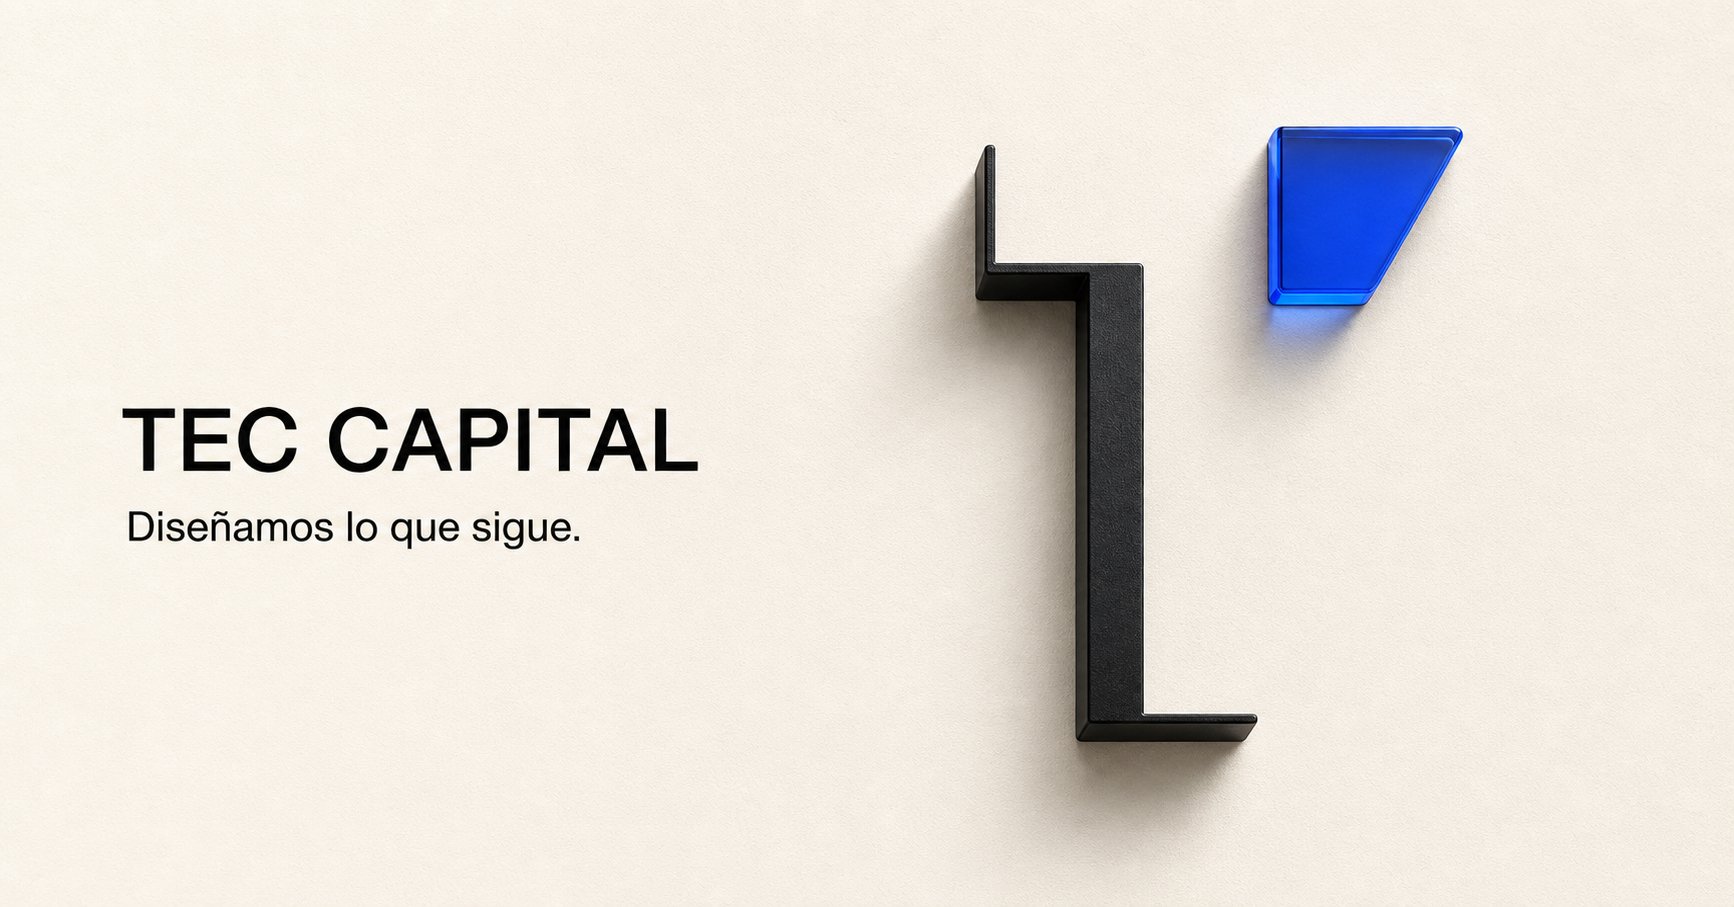
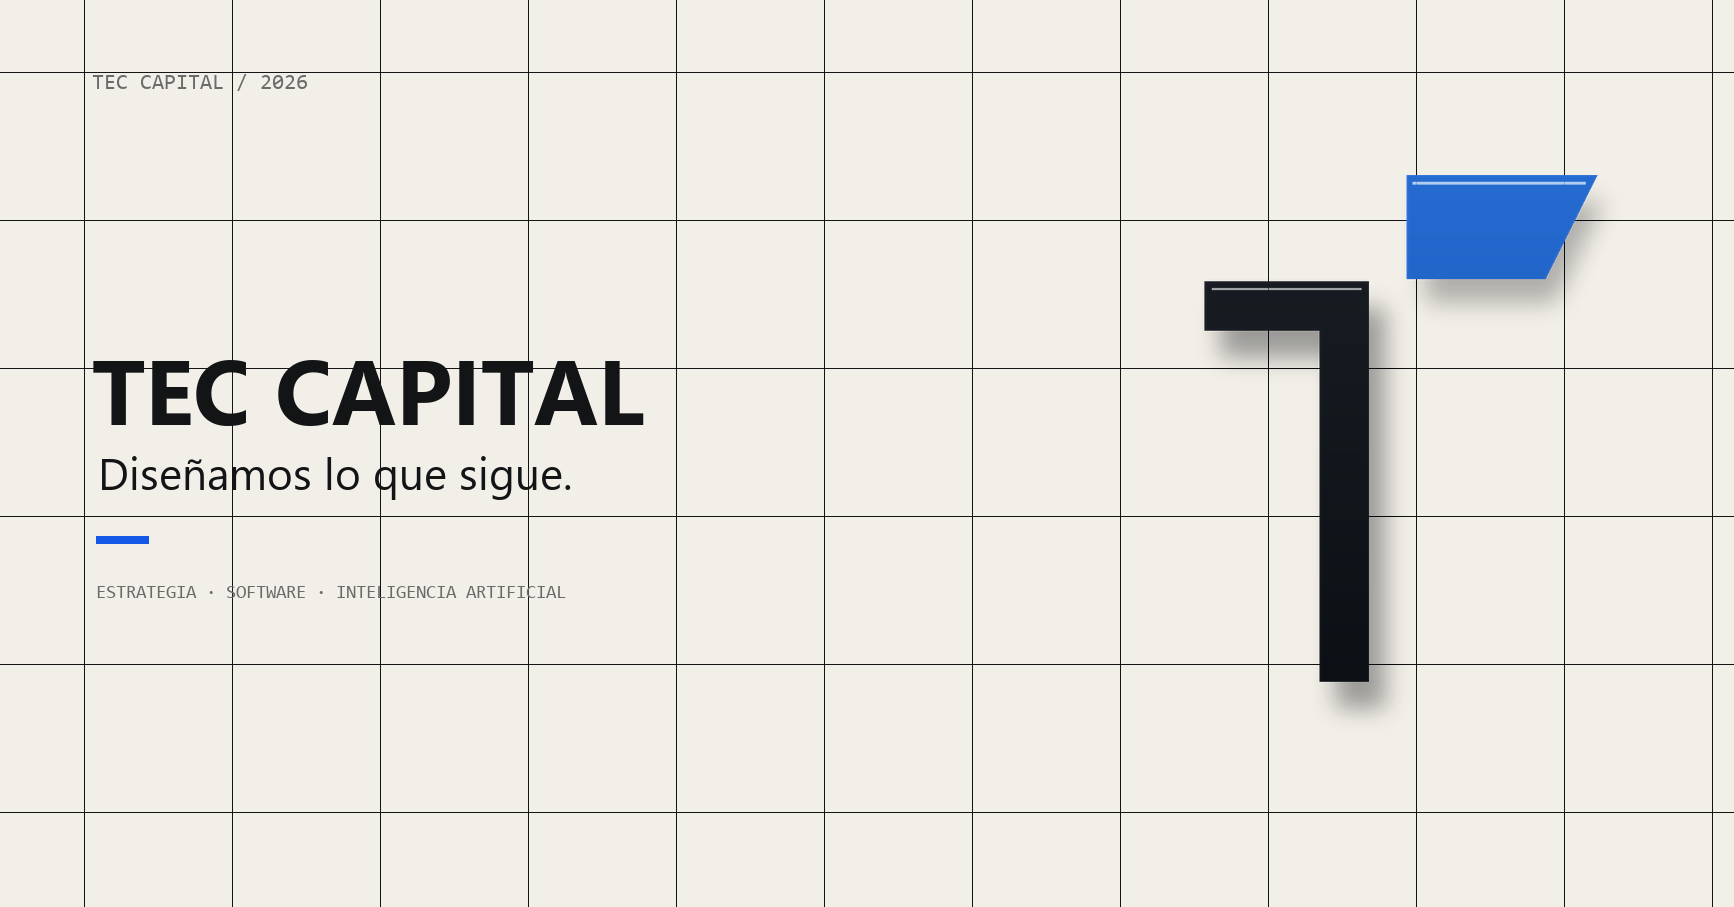
Correct TEC CAPITAL mark and responsive overlaps

diff --git a/index.html b/index.html
@@ -15,7 +15,7 @@
   <meta name="twitter:title" content="TEC CAPITAL — Diseñamos lo que sigue">
   <meta name="twitter:description" content="Estrategia, software, inteligencia artificial y diseño.">
   <meta name="twitter:image" content="assets/img/brand-editorial.png">
-  <link rel="icon" type="image/png" href="assets/img/logo-t.png">
+  <link rel="icon" type="image/png" href="assets/img/logo-t-hd.png">
   <link rel="preconnect" href="https://fonts.googleapis.com">
   <link rel="preconnect" href="https://fonts.gstatic.com" crossorigin>
   <link href="https://fonts.googleapis.com/css2?family=DM+Mono:wght@300;400;500&family=Manrope:wght@400;500;600;700&family=Urbanist:wght@500;600;700&display=swap" rel="stylesheet">
@@ -81,7 +81,7 @@
     .header.scrolled { border-color: var(--line-soft); background: rgba(242, 239, 232, .9); backdrop-filter: blur(18px); }
     .nav { display: grid; grid-template-columns: 1fr auto 1fr; align-items: center; height: 86px; }
     .brand { display: inline-flex; align-items: center; gap: 12px; justify-self: start; position: relative; z-index: 102; }
-    .brand img { width: 45px; height: 35px; object-fit: contain; mix-blend-mode: multiply; }
+    .brand img { width: 30px; height: 42px; object-fit: contain; }
     .brand strong { font-family: var(--display); font-size: .92rem; font-weight: 700; letter-spacing: -.02em; }
     .nav-links { display: flex; align-items: center; justify-content: center; gap: 28px; }
     .nav-links a { position: relative; font-size: .73rem; font-weight: 600; }
@@ -115,13 +115,8 @@
     .hero-art { position: relative; min-height: 650px; perspective: 1100px; }
     .art-grid { position: absolute; inset: 0; background-image: linear-gradient(var(--line-soft) 1px, transparent 1px), linear-gradient(90deg, var(--line-soft) 1px, transparent 1px); background-size: 54px 54px; mask-image: linear-gradient(to bottom, transparent, #000 17%, #000 82%, transparent); }
     .art-number { position: absolute; top: 8px; right: 0; font: 300 .66rem var(--mono); color: var(--muted); writing-mode: vertical-rl; }
-    .mark-scene { position: absolute; top: 50%; left: 50%; width: 360px; height: 470px; transform: translate(-50%, -50%) rotateX(var(--rx, 1deg)) rotateY(var(--ry, -8deg)); transform-style: preserve-3d; transition: transform .3s ease-out; }
-    .mark-shadow { position: absolute; left: 20%; right: 2%; bottom: 5%; height: 80px; border-radius: 50%; background: rgba(0, 0, 0, .2); filter: blur(30px); transform: rotateX(72deg) translateZ(-30px); }
-    .mark-black { position: absolute; top: 78px; left: 78px; width: 58px; height: 310px; background: var(--ink); box-shadow: 7px 7px 0 #050607, 14px 14px 32px rgba(0, 0, 0, .2); transform: translateZ(40px); }
-    .mark-black::before { content: ''; position: absolute; top: 0; right: 0; width: 126px; height: 55px; background: var(--ink); }
-    .mark-black::after { content: ''; position: absolute; right: -110px; bottom: 0; width: 112px; height: 48px; background: var(--ink); }
-    .mark-blue { position: absolute; top: 23px; right: 23px; width: 145px; height: 96px; background: var(--blue); clip-path: polygon(0 0, 100% 0, 72% 100%, 0 100%); box-shadow: 0 22px 38px rgba(21, 88, 232, .26); transform: translateZ(78px); }
-    .mark-blue::after { content: ''; position: absolute; inset: 10px; border: 1px solid rgba(255, 255, 255, .3); clip-path: inherit; }
+    .mark-scene { position: absolute; top: 50%; left: 50%; width: 390px; height: 500px; transform: translate(-50%, -50%) rotateX(var(--rx, 1deg)) rotateY(var(--ry, -8deg)); transform-style: preserve-3d; transition: transform .3s ease-out; }
+    .mark-scene img { width: 100%; height: 100%; object-fit: contain; filter: drop-shadow(18px 24px 20px rgba(18, 20, 22, .18)); }
     .art-note { position: absolute; padding: 11px 14px; border: 1px solid var(--line); background: rgba(242, 239, 232, .84); backdrop-filter: blur(8px); font: 400 .61rem var(--mono); text-transform: uppercase; }
     .note-a { top: 22%; left: -2%; }
     .note-b { right: -1%; bottom: 24%; }
@@ -176,11 +171,9 @@
     .work-card.blue { color: #fff; border-color: var(--blue); background: var(--blue); }
     .work-meta { display: flex; justify-content: space-between; gap: 20px; font: 400 .61rem var(--mono); text-transform: uppercase; }
     .work-card.blue .work-meta { color: rgba(255, 255, 255, .68); }
-    .work-mark { position: absolute; top: 50%; left: 50%; width: 180px; height: 200px; transform: translate(-50%, -50%) scale(.78); opacity: .07; transition: opacity .4s, transform .5s var(--ease); }
+    .work-mark { position: absolute; top: 50%; left: 50%; width: 180px; height: 230px; background: url('assets/img/logo-t-hd.png') center / contain no-repeat; filter: grayscale(1); transform: translate(-50%, -50%) scale(.78); opacity: .07; transition: opacity .4s, transform .5s var(--ease); }
     .work-card:hover .work-mark { opacity: .14; transform: translate(-50%, -50%) scale(1); }
-    .work-mark::before { content: ''; position: absolute; top: 34px; left: 42px; width: 30px; height: 140px; background: currentColor; box-shadow: -32px 0 currentColor; }
-    .work-mark::after { content: ''; position: absolute; top: 22px; right: 22px; width: 72px; height: 48px; background: var(--blue); clip-path: polygon(0 0, 100% 0, 75% 100%, 0 100%); }
-    .work-card.blue .work-mark::after { background: #fff; }
+    .work-card.blue .work-mark { filter: brightness(0) invert(1); }
     .work-bottom { position: relative; }
     .work-bottom h3 { margin: 0 0 9px; font-family: var(--display); font-size: clamp(2rem, 4vw, 4.2rem); font-weight: 500; line-height: .95; letter-spacing: -.05em; }
     .work-bottom p { max-width: 420px; margin: 0; color: var(--muted); font-size: .83rem; }
@@ -231,7 +224,7 @@
     footer { color: #aaa; background: var(--ink); }
     .footer { display: flex; align-items: center; justify-content: space-between; gap: 20px; min-height: 92px; font: 400 .59rem var(--mono); text-transform: uppercase; }
     .footer .brand strong { color: var(--paper); }
-    .footer .brand img { filter: invert(1) grayscale(1); mix-blend-mode: screen; }
+    .footer .brand img { filter: brightness(0) invert(1); }
     .footer-links { display: flex; gap: 24px; }
     .footer-links a:hover { color: #fff; }
     .whatsapp { position: fixed; right: 20px; bottom: 20px; z-index: 90; display: flex; align-items: center; gap: 9px; min-height: 48px; padding: 0 18px; color: #fff; background: var(--ink); font: 500 .63rem var(--mono); text-transform: uppercase; transition: background .25s, transform .25s; }
@@ -295,6 +288,7 @@
       .footer { align-items: flex-start; flex-direction: column; justify-content: center; padding: 28px 0 90px; }
       .footer-links { flex-wrap: wrap; }
       .whatsapp { right: 14px; bottom: 14px; }
+      .whatsapp { width: 48px; padding: 0; justify-content: center; font-size: 0; }
     }
 
     @media (prefers-reduced-motion: reduce) {
@@ -310,7 +304,7 @@
 
   <header class="header" id="header">
     <div class="wrap nav">
-      <a class="brand" href="#inicio" aria-label="TEC CAPITAL, inicio"><img src="assets/img/logo-t.png" alt="" width="104" height="81"><strong>TEC CAPITAL</strong></a>
+      <a class="brand" href="#inicio" aria-label="TEC CAPITAL, inicio"><img src="assets/img/logo-t-hd.png" alt="" width="652" height="827"><strong>TEC CAPITAL</strong></a>
       <nav class="nav-links" id="navLinks" aria-label="Navegación principal">
         <a href="#capacidades">Capacidades</a>
         <a href="#proyectos">Proyectos</a>
@@ -340,7 +334,7 @@
         <div class="hero-art" id="heroArt" aria-label="Símbolo arquitectónico de TEC CAPITAL" role="img">
           <div class="art-grid" aria-hidden="true"></div>
           <span class="art-number">MÉXICO · 18.4637° N</span>
-          <div class="mark-scene" id="markScene" aria-hidden="true"><div class="mark-shadow"></div><div class="mark-black"></div><div class="mark-blue"></div></div>
+          <div class="mark-scene" id="markScene" aria-hidden="true"><img src="assets/img/logo-t-hd.png" alt="" width="652" height="827"></div>
           <span class="art-note note-a">Estrategia / 01</span>
           <span class="art-note note-b">Ejecución / 02</span>
           <div class="art-caption"><span>Objeto digital</span><span>En movimiento</span></div>
@@ -440,7 +434,7 @@
   </main>
 
   <footer>
-    <div class="wrap footer"><a class="brand" href="#inicio"><img src="assets/img/logo-t.png" alt="" width="104" height="81"><strong>TEC CAPITAL</strong></a><div class="footer-links"><a href="#capacidades">Capacidades</a><a href="#proyectos">Proyectos</a><a href="#contacto">Contacto</a></div><span>© <span id="year">2026</span></span></div>
+    <div class="wrap footer"><a class="brand" href="#inicio"><img src="assets/img/logo-t-hd.png" alt="" width="652" height="827"><strong>TEC CAPITAL</strong></a><div class="footer-links"><a href="#capacidades">Capacidades</a><a href="#proyectos">Proyectos</a><a href="#contacto">Contacto</a></div><span>© <span id="year">2026</span></span></div>
   </footer>
 
   <a class="whatsapp" href="https://wa.me/5212361112213?text=Hola%20TEC%20CAPITAL%2C%20quiero%20platicarles%20un%20proyecto" target="_blank" rel="noopener">Conversemos</a>

diff --git a/make_brand_assets.py b/make_brand_assets.py
@@ -1,0 +1,110 @@
+from pathlib import Path
+from PIL import Image, ImageDraw, ImageFilter, ImageFont
+
+
+ROOT = Path(__file__).resolve().parent
+ASSETS = ROOT / "assets" / "img"
+SOURCE = ASSETS / "logo-t.png"
+LOGO_OUT = ASSETS / "logo-t-hd.png"
+POSTER_OUT = ASSETS / "brand-editorial.png"
+
+
+def vertical_gradient(size: tuple[int, int], top: tuple[int, ...], bottom: tuple[int, ...]) -> Image.Image:
+    layer = Image.new("RGBA", size)
+    pixels = layer.load()
+    for y in range(size[1]):
+        ratio = y / max(1, size[1] - 1)
+        color = tuple(round(a + (b - a) * ratio) for a, b in zip(top, bottom))
+        for x in range(size[0]):
+            pixels[x, y] = color
+    return layer
+
+
+def extract_logo() -> Image.Image:
+    """Rebuild the supplied stylized T as a crisp, scalable transparent mark."""
+    canvas = Image.new("RGBA", (1024, 1024), (0, 0, 0, 0))
+
+    shadow = Image.new("RGBA", canvas.size, (0, 0, 0, 0))
+    shadow_draw = ImageDraw.Draw(shadow)
+    shadow_draw.rectangle((296, 322, 518, 388), fill=(8, 12, 17, 95))
+    shadow_draw.rectangle((452, 322, 518, 864), fill=(8, 12, 17, 95))
+    shadow_draw.polygon(((574, 178), (814, 178), (748, 314), (574, 314)), fill=(8, 12, 17, 72))
+    shadow = shadow.filter(ImageFilter.GaussianBlur(15))
+    canvas.alpha_composite(shadow, (12, 18))
+
+    black_mask = Image.new("L", canvas.size, 0)
+    black_draw = ImageDraw.Draw(black_mask)
+    black_draw.rectangle((286, 304, 508, 370), fill=255)
+    black_draw.rectangle((442, 304, 508, 846), fill=255)
+    black_layer = vertical_gradient(canvas.size, (29, 34, 40, 255), (8, 12, 17, 255))
+    black_layer.putalpha(black_mask)
+    canvas.alpha_composite(black_layer)
+
+    blue_mask = Image.new("L", canvas.size, 0)
+    blue_draw = ImageDraw.Draw(blue_mask)
+    blue_draw.polygon(((560, 160), (818, 160), (748, 300), (560, 300)), fill=255)
+    blue_layer = vertical_gradient(canvas.size, (41, 112, 214, 255), (18, 76, 173, 255))
+    blue_layer.putalpha(blue_mask)
+    canvas.alpha_composite(blue_layer)
+
+    highlight = ImageDraw.Draw(canvas)
+    highlight.line((568, 170, 802, 170), fill=(126, 177, 242, 160), width=4)
+    highlight.line((296, 314, 498, 314), fill=(81, 89, 99, 135), width=3)
+
+    bbox = canvas.getchannel("A").getbbox()
+    if not bbox:
+        raise RuntimeError("No se pudo construir el símbolo.")
+    padding = 34
+    crop_box = (
+        max(0, bbox[0] - padding),
+        max(0, bbox[1] - padding),
+        min(canvas.width, bbox[2] + padding),
+        min(canvas.height, bbox[3] + padding),
+    )
+    cropped = canvas.crop(crop_box)
+    cropped.save(LOGO_OUT, optimize=True)
+    return cropped
+
+
+def font(path: str, size: int) -> ImageFont.FreeTypeFont:
+    return ImageFont.truetype(str(Path("C:/Windows/Fonts") / path), size=size)
+
+
+def create_poster(logo: Image.Image) -> None:
+    width, height = 1734, 907
+    paper = (242, 239, 232, 255)
+    poster = Image.new("RGBA", (width, height), paper)
+    draw = ImageDraw.Draw(poster)
+
+    # Restrained editorial grid and small registration marks.
+    line = (18, 20, 22, 22)
+    for x in range(84, width, 148):
+        draw.line((x, 0, x, height), fill=line, width=1)
+    for y in range(72, height, 148):
+        draw.line((0, y, width, y), fill=line, width=1)
+
+    ink = (18, 20, 22, 255)
+    blue = (21, 88, 232, 255)
+    muted = (105, 108, 106, 255)
+    draw.text((92, 72), "TEC CAPITAL / 2026", font=font("consola.ttf", 22), fill=muted)
+    draw.text((92, 326), "TEC CAPITAL", font=font("segoeuib.ttf", 91), fill=ink)
+    draw.text((98, 442), "Diseñamos lo que sigue.", font=font("segoeui.ttf", 44), fill=ink)
+    draw.rectangle((96, 536, 148, 543), fill=blue)
+    draw.text(
+        (96, 583),
+        "ESTRATEGIA · SOFTWARE · INTELIGENCIA ARTIFICIAL",
+        font=font("consola.ttf", 19),
+        fill=muted,
+    )
+
+    mark = logo.copy()
+    mark.thumbnail((610, 610), Image.Resampling.LANCZOS)
+    poster.alpha_composite(mark, (1140 + (540 - mark.width) // 2, 150))
+    poster.convert("RGB").save(POSTER_OUT, quality=94, optimize=True)
+
+
+if __name__ == "__main__":
+    high_resolution_logo = extract_logo()
+    create_poster(high_resolution_logo)
+    print(LOGO_OUT)
+    print(POSTER_OUT)
